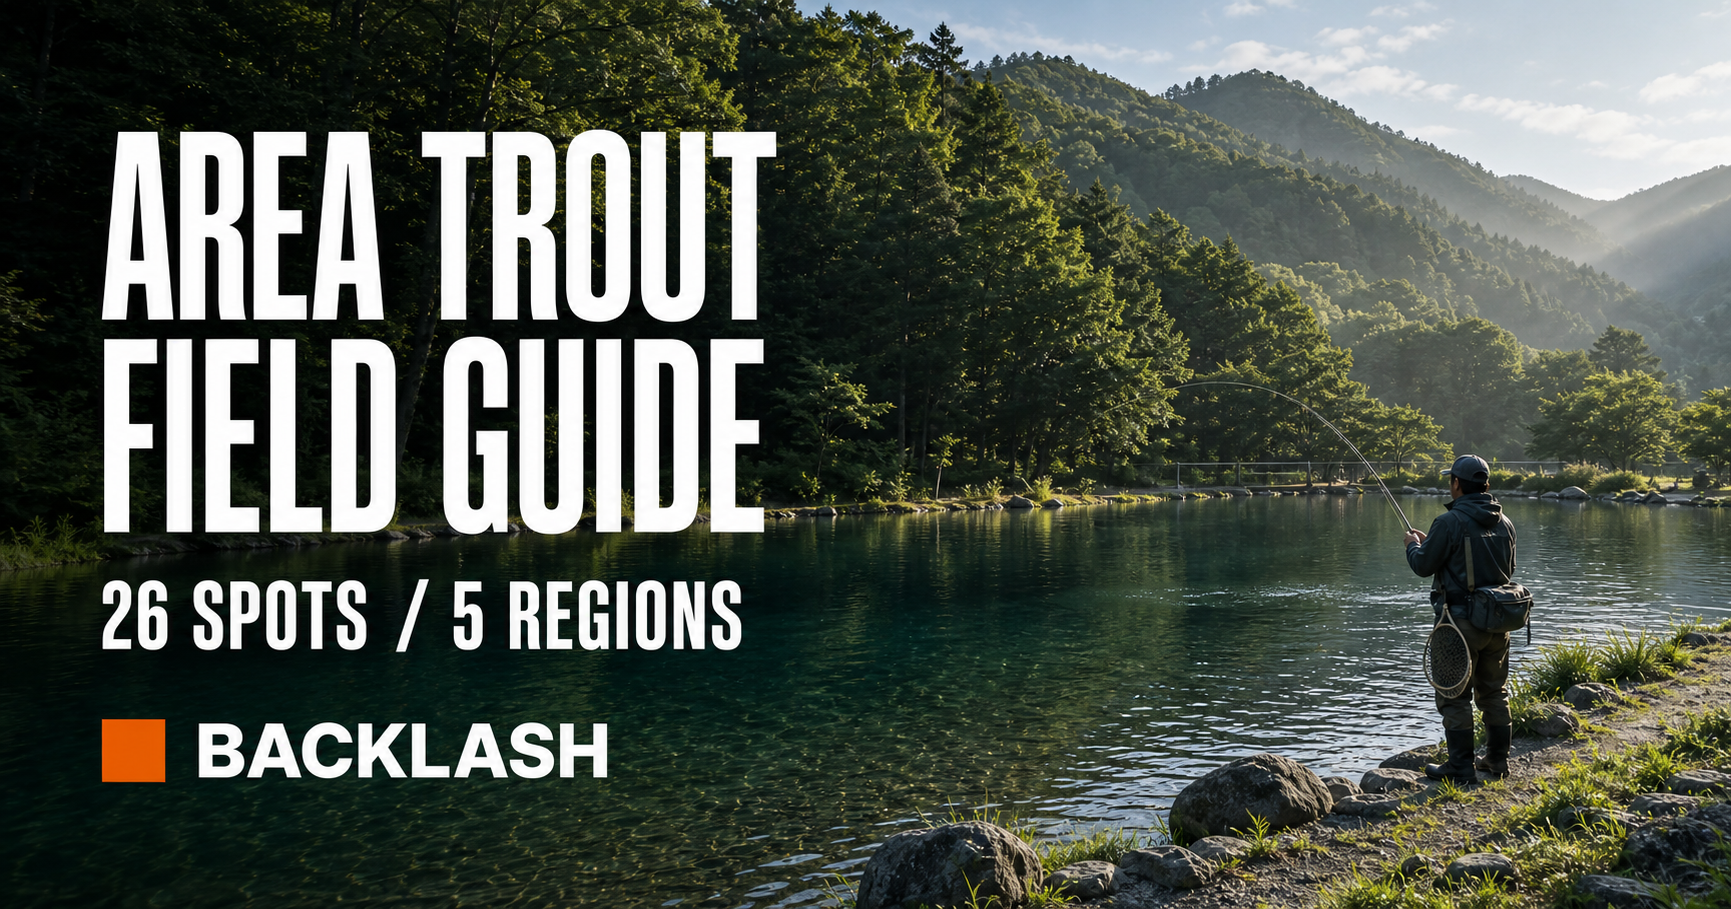
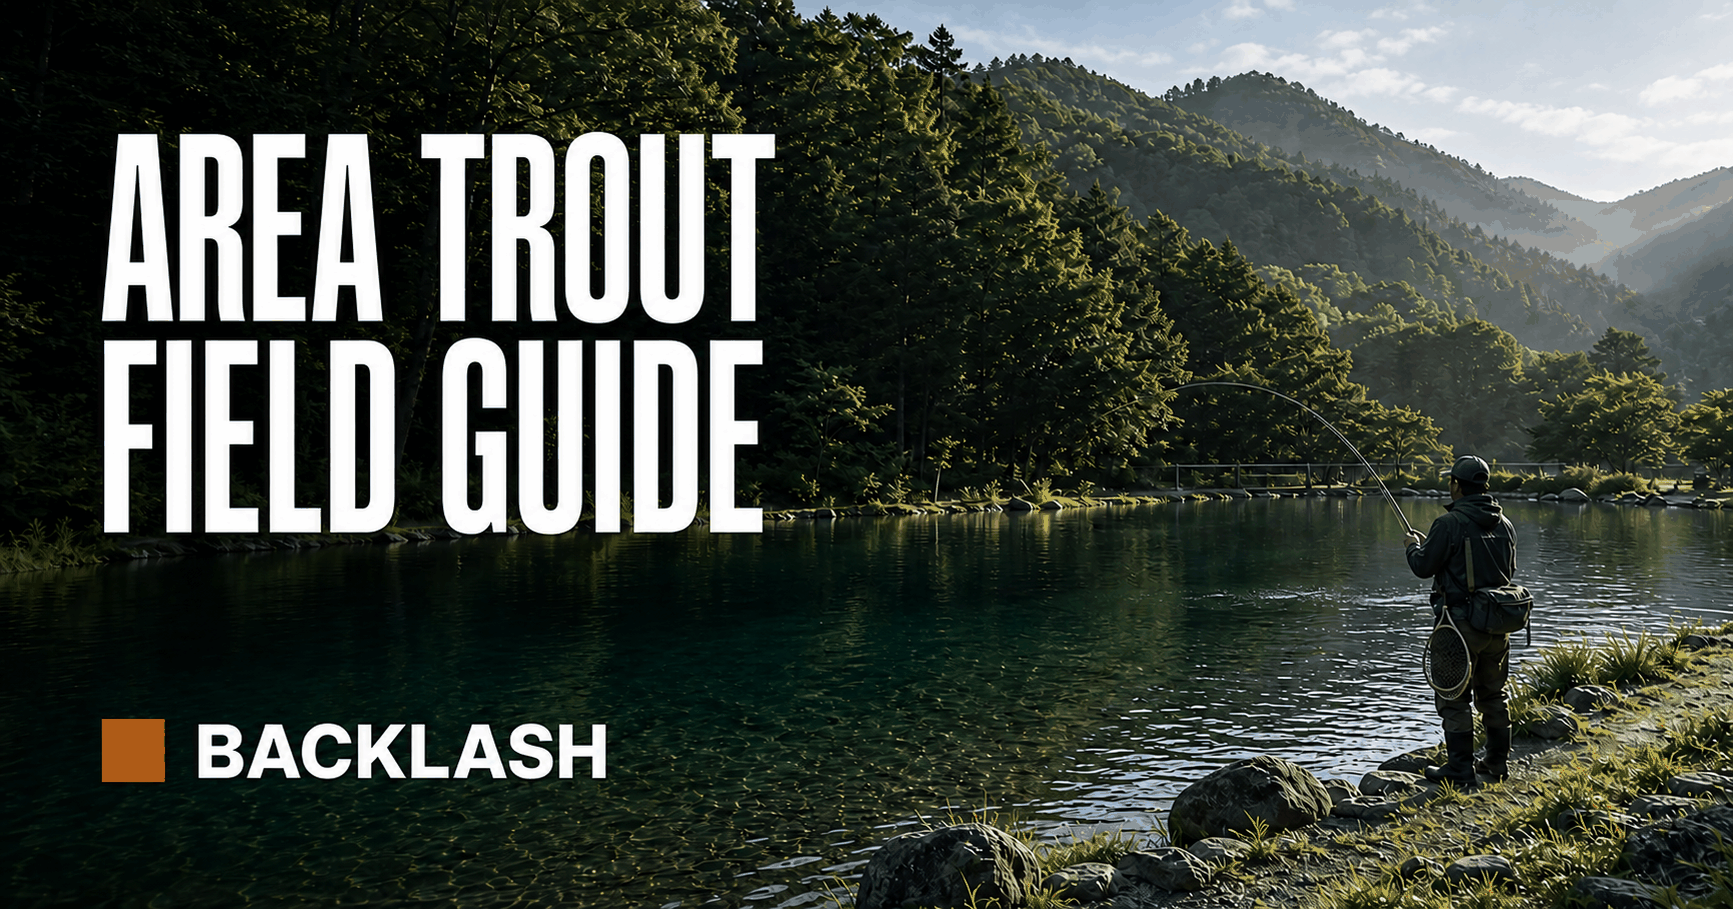
Add venue photos and remove fixed spot count

diff --git a/app/page.tsx b/app/page.tsx
@@ -26,21 +26,21 @@ const venues: Venue[] = [
   { name: "さかなのさとすぎしま", prefecture: "岐阜", region: "東海", note: "板取川沿いで釣りとBBQを楽しめる自然派エリア", url: "https://sakananosato.com/", image: "/venues/venue-04.webp", photo: false },
   { name: "美濃フィッシングエリア", prefecture: "岐阜", region: "東海", note: "清流の里で過ごす、緑に囲まれたフィールド", url: "https://www.mino-fa.com/", image: "/venues/venue-05.webp", photo: false },
   { name: "月見ヶ原FC", prefecture: "岐阜", region: "東海", note: "長良川水系で楽しむ冬季のルアーフィールド", url: "https://www.nagaragawachuoh.or.jp/ryouyuu_annai/ryouyuu_annai_04.htm", image: "/venues/venue-06.webp", photo: false },
-  { name: "フィッシング母袋", prefecture: "岐阜", region: "東海", note: "標高700mの山あいで魚と向き合うポンド", url: "https://www.motai.info/", image: "/venues/venue-07.webp", photo: false },
-  { name: "釣り＆キャンプ 鱒蔵", prefecture: "岐阜", region: "東海", note: "アウトドアの一日をゆったり楽しめる釣り場", url: "https://masukura-2.jimdosite.com/", image: "/venues/venue-08.webp", photo: false },
-  { name: "アルクスポンド宇都宮", prefecture: "栃木", region: "関東", note: "都市近郊から通いやすい本格ポンドエリア", url: "https://www.arcus-pond.com/", image: "/venues/venue-09.webp", photo: false },
+  { name: "フィッシング母袋", prefecture: "岐阜", region: "東海", note: "標高700mの山あいで魚と向き合うポンド", url: "https://www.motai.info/", image: "/venues/motai.webp", photo: true },
+  { name: "釣り＆キャンプ 鱒蔵", prefecture: "岐阜", region: "東海", note: "アウトドアの一日をゆったり楽しめる釣り場", url: "https://masukura-2.jimdosite.com/", image: "/venues/masukura.webp", photo: true },
+  { name: "アルクスポンド宇都宮", prefecture: "栃木", region: "関東", note: "都市近郊から通いやすい本格ポンドエリア", url: "https://www.arcus-pond.com/", image: "/venues/arcus-utsunomiya.webp", photo: true },
   { name: "五頭フィッシングパーク", prefecture: "新潟", region: "甲信越", note: "山並みを望む、新潟の人気フィールド", url: "https://www.gozu-fp.jp/", image: "/venues/gozu.webp", photo: true },
-  { name: "アングラーズパーク キングフィッシャー", prefecture: "栃木", region: "関東", note: "トラウトもバスも楽しめる複合フィールド", url: "https://kingfisher-tochigi.com/", image: "/venues/venue-10.webp", photo: false },
-  { name: "ジョイバレー ルアー・フライ", prefecture: "千葉", region: "関東", note: "里山の空気に包まれた静かなポンド", url: "https://www.joyvalley.co.jp/", image: "/venues/venue-11.webp", photo: false },
+  { name: "アングラーズパーク キングフィッシャー", prefecture: "栃木", region: "関東", note: "トラウトもバスも楽しめる複合フィールド", url: "https://kingfisher-tochigi.com/", image: "/venues/kingfisher.webp", photo: true },
+  { name: "ジョイバレー ルアー・フライ", prefecture: "千葉", region: "関東", note: "里山の空気に包まれた静かなポンド", url: "https://www.joyvalley.co.jp/", image: "/venues/joyvalley.webp", photo: true },
   { name: "足柄キャスティングエリア", prefecture: "神奈川", region: "関東", note: "足柄の山々を近くに感じるフィールド", url: "https://www.ashigara-ca.com/", image: "/venues/venue-12.webp", photo: false },
-  { name: "大芦川F&Cフィールドビレッジ", prefecture: "栃木", region: "関東", note: "清流の気配を感じる自然豊かなエリア", url: "http://park10.wakwak.com/~fishing/", image: "/venues/venue-13.webp", photo: false },
-  { name: "みどりフィッシングエリア", prefecture: "栃木", region: "関東", note: "山間の景色と水辺をゆっくり楽しむポンド", url: "https://ms3103.blog.fc2.com/", image: "/venues/venue-14.webp", photo: false },
-  { name: "フィッシングフィールド中津川", prefecture: "神奈川", region: "関東", note: "中津川水系の自然に近い管理釣り場", url: "https://www.nakatugawa-gyokyou.jp/index.html", image: "/venues/venue-15.webp", photo: false },
-  { name: "レイクウッドリゾート", prefecture: "栃木", region: "関東", note: "自然と食事を一緒に楽しめる水辺のリゾート", url: "https://lakewoodresort.info/", image: "/venues/venue-16.webp", photo: false },
+  { name: "大芦川F&Cフィールドビレッジ", prefecture: "栃木", region: "関東", note: "清流の気配を感じる自然豊かなエリア", url: "http://park10.wakwak.com/~fishing/", image: "/venues/oashigawa.webp", photo: true },
+  { name: "みどりフィッシングエリア", prefecture: "栃木", region: "関東", note: "山間の景色と水辺をゆっくり楽しむポンド", url: "https://ms3103.blog.fc2.com/", image: "/venues/midori.webp", photo: true },
+  { name: "フィッシングフィールド中津川", prefecture: "神奈川", region: "関東", note: "中津川水系の自然に近い管理釣り場", url: "https://www.nakatugawa-gyokyou.jp/index.html", image: "/venues/nakatsugawa.webp", photo: true },
+  { name: "レイクウッドリゾート", prefecture: "栃木", region: "関東", note: "自然と食事を一緒に楽しめる水辺のリゾート", url: "https://lakewoodresort.info/", image: "/venues/lakewood.webp", photo: true },
   { name: "加賀フィッシングエリア", prefecture: "栃木", region: "関東", note: "北関東最大級のスケールを誇るポンドエリア", url: "https://kaga-fishingarea.jp/", image: "/venues/venue-17.webp", photo: false },
   { name: "すそのフィッシングパーク", prefecture: "静岡", region: "東海", note: "富士山麓の変化ある池を楽しむ人気エリア", url: "https://www.susono-f-park.com/", image: "/venues/venue-18.webp", photo: false },
-  { name: "東山湖フィッシングエリア", prefecture: "静岡", region: "東海", note: "富士を望む湖畔でロングキャストを楽しむ", url: "https://www.higashiyamako.com/", image: "/venues/venue-19.webp", photo: false },
-  { name: "あいづフィッシングエリア", prefecture: "福島", region: "東北", note: "会津の山あいで季節の空気を楽しむポンド", url: "https://aizufishing.jp/", image: "/venues/venue-20.webp", photo: false },
+  { name: "東山湖フィッシングエリア", prefecture: "静岡", region: "東海", note: "富士を望む湖畔でロングキャストを楽しむ", url: "https://www.higashiyamako.com/", image: "/venues/higashiyamako.webp", photo: true },
+  { name: "あいづフィッシングエリア", prefecture: "福島", region: "東北", note: "会津の山あいで季節の空気を楽しむポンド", url: "https://aizufishing.jp/", image: "/venues/aizu.webp", photo: true },
 ];
 
 const regionOptions = ["すべて", "東海", "甲信越", "関西", "関東", "東北"] as const;
@@ -72,16 +72,12 @@ export default function Home() {
       </header>
 
       <section className="hero" id="top">
-        <img className="hero-image" src="/venues/atmosphere-atlas.png" alt="さまざまなエリアトラウト釣り場の雰囲気イメージ" />
+        <img className="hero-image" src="/venues/atmosphere-atlas.webp" alt="さまざまなエリアトラウト釣り場の雰囲気イメージ" />
         <div className="hero-shade" />
         <div className="hero-inner">
           <p className="eyebrow">AREA TROUT / FIELD GUIDE</p>
           <h1>いい水、<br />いい時間。</h1>
-          <p className="hero-copy">東海から関東・東北まで。BACKLASHスタッフが足を運んだ、26の管理釣り場をめぐるフィールドガイド。</p>
-          <div className="hero-meta" aria-label="掲載情報">
-            <span><strong>26</strong> SPOTS</span>
-            <span><strong>5</strong> REGIONS</span>
-          </div>
+          <p className="hero-copy">東海から関東・東北まで。BACKLASHスタッフが足を運んだ管理釣り場をめぐるフィールドガイド。</p>
         </div>
         <a className="hero-jump" href="#spots">EXPLORE <span aria-hidden="true">↓</span></a>
       </section>

diff --git a/app/layout.tsx b/app/layout.tsx
@@ -3,7 +3,7 @@ import { headers } from "next/headers";
 import "./globals.css";
 
 const title = "エリアトラウト釣り場ガイド | LURE & BOAT BACKLASH";
-const description = "BACKLASHスタッフが訪れた管理釣り場26か所を、地域と雰囲気から探せるフィールドガイド。";
+const description = "BACKLASHスタッフが訪れた管理釣り場を、地域と雰囲気から探せるフィールドガイド。";
 
 export async function generateMetadata(): Promise<Metadata> {
   const requestHeaders = await headers();
@@ -24,13 +24,13 @@ export async function generateMetadata(): Promise<Metadata> {
       description,
       type: "website",
       locale: "ja_JP",
-      images: [{ url: "/og.png", width: 1733, height: 909, alt: "AREA TROUT FIELD GUIDE" }],
+      images: [{ url: "/og.webp", width: 1733, height: 909, alt: "AREA TROUT FIELD GUIDE" }],
     },
     twitter: {
       card: "summary_large_image",
       title,
       description,
-      images: ["/og.png"],
+      images: ["/og.webp"],
     },
   };
 }
